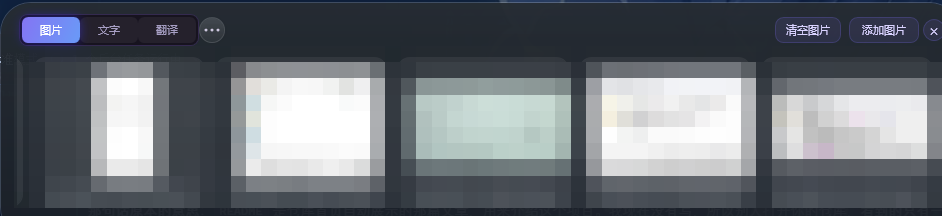
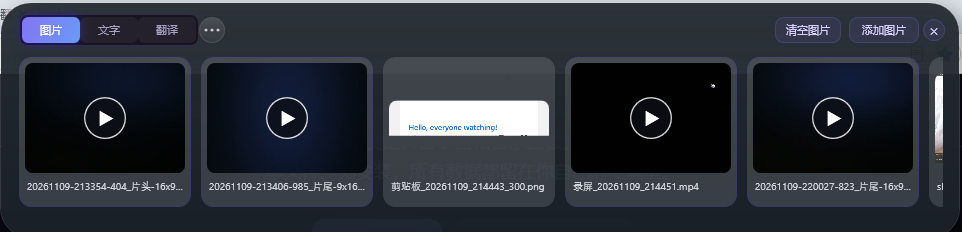
docs(site): 面板截图换成实拍（无马赛克），说明文案补充视频

diff --git a/index.html b/index.html
@@ -87,9 +87,9 @@
 
       <div class="hero-shot reveal">
         <div class="shot-frame">
-          <img src="assets/img/panel.png" alt="万象岛面板截图" width="942" height="216">
+          <img src="assets/img/panel.png" alt="万象岛面板截图" width="962" height="232">
         </div>
-        <div class="shot-caption">图片 / 文字 / 翻译 三个页签，滚轮翻页，右键出菜单</div>
+        <div class="shot-caption">图片 / 文字 / 翻译 三个页签，视频与图片都能收进来，滚轮翻页、右键出菜单</div>
       </div>
     </div>
   </section>
@@ -401,7 +401,7 @@
       </figure>
       <figure class="reveal wide">
         <img src="assets/img/panel.png" alt="面板">
-        <figcaption>图片 / 文字 / 翻译 三个页签</figcaption>
+        <figcaption>图片 / 文字 / 翻译 三个页签（视频也能收）</figcaption>
       </figure>
     </div>
   </section>
